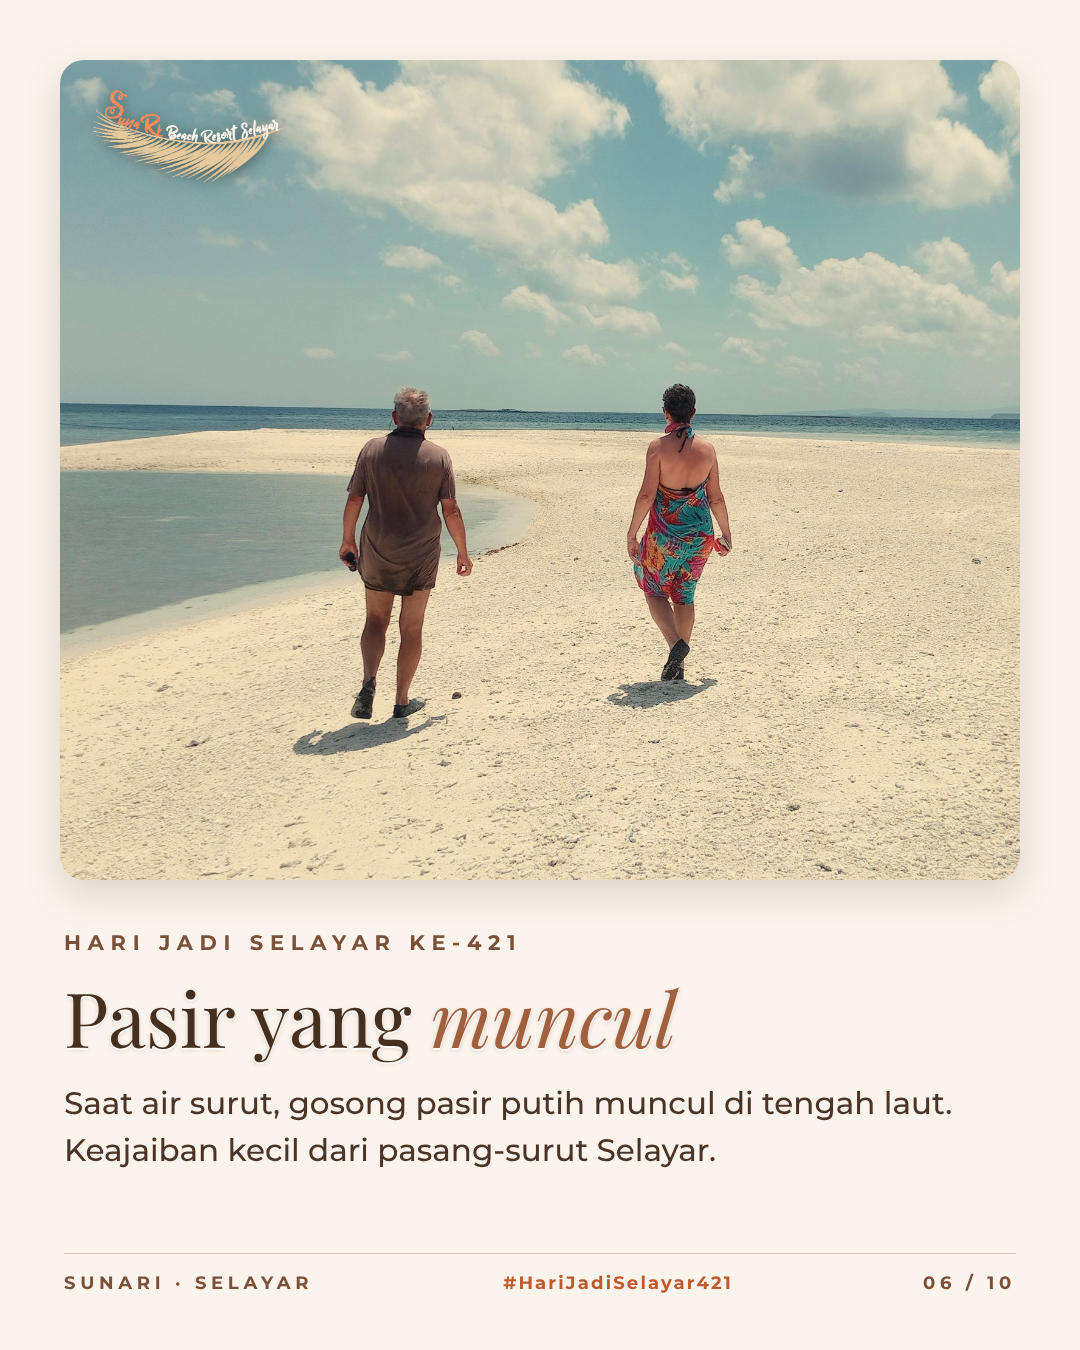
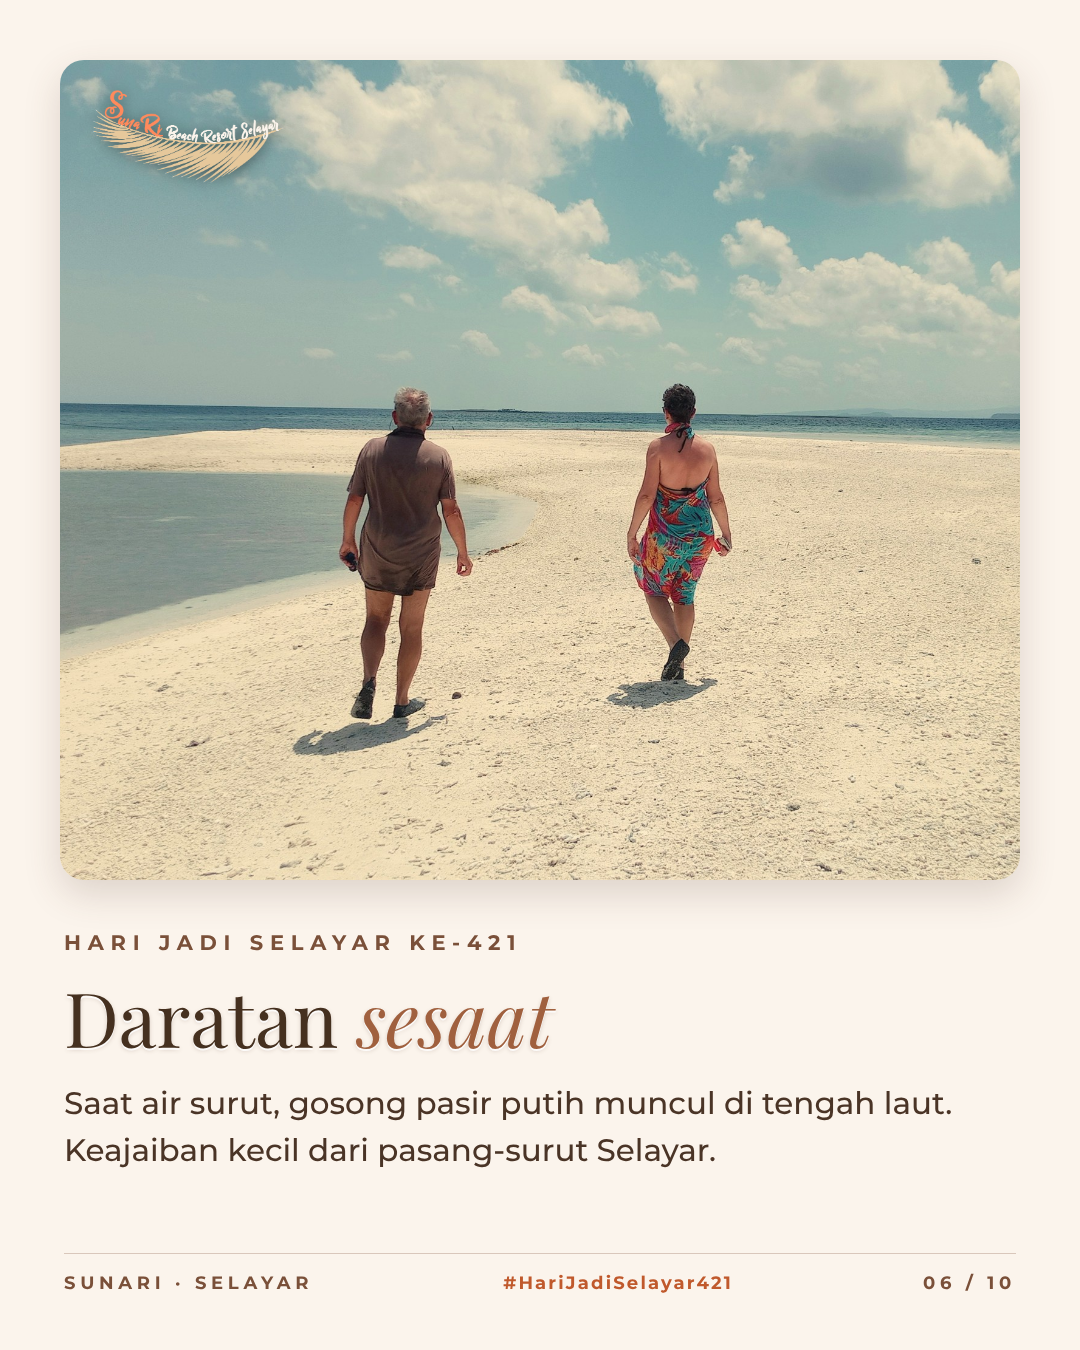
Feed Hari Jadi Selayar slide 6: judul 'Daratan sesaat'
Claude-Session: https://claude.ai/code/session_01KeLc5eBGUnchV5ne3wvwHX

Changed region(s): [[0.0917, 0.7156, 0.6417, 0.7778]]

diff --git a/social/hari_jadi_feed.html b/social/hari_jadi_feed.html
@@ -47,7 +47,7 @@ body{background:#bbb;font-family:Montserrat,sans-serif}
   <div class="bt"><span>SunaRi · Selayar</span><span class="h">#HariJadiSelayar421</span><span>04 / 10</span></div></div><div class="t" id="hari-jadi-05"><div class="ph grid" style="grid-template-columns:1.3fr 1fr;grid-template-rows:1fr 1fr"><div style="grid-row:1/3"><img src="hari-jadi-selayar-feed/foto/bahuluang__51-pantai-barat-teluk-pasir-putih.jpg" style="object-position:45% 50%" alt=""><div class="cap">Bahuluang</div></div><div style=""><img src="hari-jadi-selayar-feed/foto/pantai__03-pulau-di-seberang.jpg" style="object-position:50% 60%" alt=""><div class="cap">Gusung</div></div><div style=""><img src="hari-jadi-selayar-feed/foto/polassi-tambolongan__07-punggung-bukit-nane-dan-teluk.jpg" style="object-position:50% 50%" alt=""><div class="cap">Polassi</div></div><img class="lg" src="../assets/logo-sunari-color-dark.png" style="position:absolute" alt=""></div>
   <div class="kick">Hari Jadi Selayar ke-421</div><div class="ttl emb">Pulau-pulau <em>yang memesona</em></div><div class="sub">Bahuluang, Gusung, Polassi, Tambolongan. Hanya sebagian kecil dari keindahan Kepulauan Selayar.</div>
   <div class="bt"><span>SunaRi · Selayar</span><span class="h">#HariJadiSelayar421</span><span>05 / 10</span></div></div><div class="t" id="hari-jadi-06"><div class="ph"><img src="hari-jadi-selayar-feed/foto/bahuluang__12-berjalan-di-pasir-timbul.jpg" style="object-position:50% 55%" alt=""><img class="lg" src="../assets/logo-sunari-color-dark.png" alt=""></div>
-  <div class="kick">Hari Jadi Selayar ke-421</div><div class="ttl emb">Pasir yang <em>muncul</em></div><div class="sub">Saat air surut, gosong pasir putih muncul di tengah laut. Keajaiban kecil dari pasang-surut Selayar.</div>
+  <div class="kick">Hari Jadi Selayar ke-421</div><div class="ttl emb">Daratan <em>sesaat</em></div><div class="sub">Saat air surut, gosong pasir putih muncul di tengah laut. Keajaiban kecil dari pasang-surut Selayar.</div>
   <div class="bt"><span>SunaRi · Selayar</span><span class="h">#HariJadiSelayar421</span><span>06 / 10</span></div></div><div class="t" id="hari-jadi-07"><div class="ph"><img src="hari-jadi-selayar-feed/foto/bahuluang__47-dalam-gua-lipang-stalaktit-rombongan.jpg" style="object-position:50% 40%" alt=""><img class="lg" src="../assets/logo-sunari-color-dark.png" alt=""></div>
   <div class="kick">Hari Jadi Selayar ke-421</div><div class="ttl emb">Gua yang <em>dibentuk laut</em></div><div class="sub">Gua Lipang di Pulau Bahuluang: stalaktit menggantung, lantai pasir putih, sejuk di dalam.</div>
   <div class="bt"><span>SunaRi · Selayar</span><span class="h">#HariJadiSelayar421</span><span>07 / 10</span></div></div><div class="t" id="hari-jadi-08"><div class="ph"><img src="hari-jadi-selayar-feed/foto/senja__86-matahari-merah-dua-perahu.jpg" style="object-position:50% 53%" alt=""><img class="lg" src="../assets/logo-sunari-color-dark.png" alt=""></div>

diff --git a/social/build_hari_jadi_feed.py b/social/build_hari_jadi_feed.py
@@ -29,7 +29,7 @@ SL = [
   'Karang dan ikan warna-warni di perairan Selayar. Jaga bersama, wariskan untuk anak cucu.'),
  ([(P + "bahuluang__51-pantai-barat-teluk-pasir-putih.jpg", "45% 50%", "Bahuluang"), (P + "pantai__03-pulau-di-seberang.jpg", "50% 60%", "Gusung"), (P + "polassi-tambolongan__07-punggung-bukit-nane-dan-teluk.jpg", "50% 50%", "Polassi")], "", 'Pulau-pulau <em>yang memesona</em>',
   'Bahuluang, Gusung, Polassi, Tambolongan. Hanya sebagian kecil dari keindahan Kepulauan Selayar.'),
- (P + "bahuluang__12-berjalan-di-pasir-timbul.jpg", "50% 55%", 'Pasir yang <em>muncul</em>',
+ (P + "bahuluang__12-berjalan-di-pasir-timbul.jpg", "50% 55%", 'Daratan <em>sesaat</em>',
   'Saat air surut, gosong pasir putih muncul di tengah laut. Keajaiban kecil dari pasang-surut Selayar.'),
  (P + "bahuluang__47-dalam-gua-lipang-stalaktit-rombongan.jpg", "50% 40%", 'Gua yang <em>dibentuk laut</em>',
   'Gua Lipang di Pulau Bahuluang: stalaktit menggantung, lantai pasir putih, sejuk di dalam.'),
